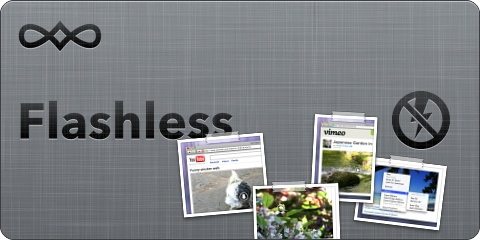
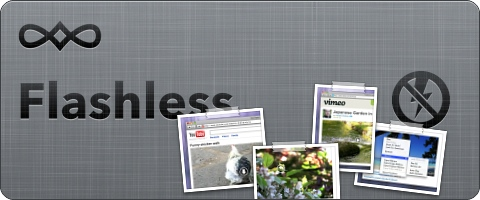
Add Flashless 2.0.4

diff --git a/de/flashless/index.html b/de/flashless/index.html
@@ -39,9 +39,9 @@
 <div class="wrapper">
 
 <div class="product aside">
-<!-- <img class="badge" src="../lay/new.png" alt="Neu" /> -->
+<img class="badge" src="../lay/new.png" alt="Neu" />
 <img class="logo" src="../../lay/flashless/logo.png" alt="Flashless" />
-<h2>Flashless <span class="note">2.0.3.1</span></h2>
+<h2>Flashless <span class="note">2.0.4</span></h2>
 <h3><a href="download.html">Herunterladen</a>
 (.dmg, ≈380K)
 </h3>
@@ -50,7 +50,7 @@
 <h3>Voraussetzungen</h3>
 <p>Mac OS X 10.5 Leopard oder <br />10.6 Snow Leopard und <br />ein WebKit-Browser (z.B. Safari).</p>
 <hr />
-<p>15Apr2010 — <a href="notes.html">Versionshinweise</a>.</p>
+<p>22Jul2010 — <a href="notes.html">Versionshinweise</a>.</p>
 <p><a href="faq.html#install">Anleitung</a>, <a href="http://github.com/useless/Flashless">Quellen</a></p>
 </div>
 
@@ -95,7 +95,7 @@ Sie können eingebettete Videos auf der Seite des Anbieters sehen.
 <cite>Konstantin</cite>
 </div>
 
-<p class="msg">Wenn Sie auf YouTube nur „Go Upgrade!“ sehen, aktualisieren Sie auf <a href="download.html">Flashless 2.0.3.1</a>.</p>
+<p class="msg">Wenn Sie auf <em>YouTube</em> nur „Go Upgrade!“ sehen oder Downloads nicht funktionieren, aktualisieren Sie auf <a href="download.html">Flashless 2.0.4</a>.</p>
 
 <h2>Galerie</h2>
 <a href="../../lay/flashless/preview.jpg" title="Video-Vorschaubilder"><img src="../../lay/flashless/previewt.png" height="100" width="100" alt="Vorschau" /></a>
@@ -115,7 +115,7 @@ Sie können eingebettete Videos auf der Seite des Anbieters sehen.
 </ul>
 
 <p><a href="http://useless.github.com/de/flashless/">useless.github.com/de/flashless</a> — Useless Coding.</p>
-<p>Zuletzt am <em>5. Juli 2010</em> geändert.</p>
+<p>Zuletzt am <em>22. Juli 2010</em> geändert.</p>
 </div>
 
 </body>

diff --git a/de/index.html b/de/index.html
@@ -24,21 +24,21 @@
 </ul>
 
 <h1>Useless Coding</h1>
-<p class="intro">Wir sind überzeugt, dass gute Software auf einer einfachen Idee basiert.</p>
+<p class="intro">Vielleicht gar nicht so nutzlos.</p>
 </div>
 </div>
 
 <div class="wrapper">
 <div class="aside">
 <ul>
+<li>22Jul2010 <a href="flashless/">Flashless</a> 2.0.4</li>
 <li>16Jun2010 <a href="there/">There</a> 1.0.1</li>
 <li>15Apr2010 <a href="flashless/">Flashless</a> 2.0.3.1</li>
-<li>8Apr2010 <a href="flashless/">Flashless</a> 2.0.3</li>
 </ul>
 
 <hr />
 
-<p class="msg">Wenn Sie auf YouTube nur „Go Upgrade!“ sehen, aktualisieren Sie auf <a href="flashless/">Flashless 2.0.3.1</a>.</p>
+<p class="msg">Wenn Sie auf <em>YouTube</em> nur „Go Upgrade!“ sehen oder Downloads nicht funktionieren, aktualisieren Sie auf <a href="flashless/">Flashless 2.0.4</a>.</p>
 
 <q class="de">Ok I love this app. Disables all flash, until you decide to load it = quicker safari.</q>
 <cite><a href="http://twitter.com/richcousins">@richcousins</a> über <em>Flashless</em></cite>
@@ -48,7 +48,7 @@
 
 <ul class="hero">
 <li>
-<a href="flashless/" title="Flashless: Videos sehen, den Rest blockieren"><img src="../lay/flashless.hero.jpg" height="240" width="480" alt="Flashless" /></a>
+<a href="flashless/" title="Flashless: Videos sehen, den Rest blockieren"><img src="../lay/flashless.hero.jpg" height="200" width="480" alt="Flashless" /></a>
 </li>
 <li>
 <a href="chain/" title="Chain: Bilder erkunden"><img src="../lay/chain.hero.jpg" height="100" width="480" alt="Chain" /></a>
@@ -104,7 +104,7 @@
 </ul>
 
 <p><a href="http://useless.github.com/de/">useless.github.com/de</a> — Useless Coding.</p>
-<p>Zuletzt am <em>10. Juli 2010</em> geändert.</p>
+<p>Zuletzt am <em>22. Juli 2010</em> geändert.</p>
 </div>
 
 </body>

diff --git a/index.html b/index.html
@@ -24,21 +24,21 @@
 </ul>
 
 <h1>Useless Coding</h1>
-<p class="intro">We believe that good software is based on a simple idea.</p>
+<p class="intro">Well, maybe not that useless.</p>
 </div>
 </div>
 
 <div class="wrapper">
 <div class="aside">
 <ul>
+<li>22Jul2010 <a href="flashless/">Flashless</a> 2.0.4</li>
 <li>16Jun2010 <a href="there/">There</a> 1.0.1</li>
 <li>15Apr2010 <a href="flashless/">Flashless</a> 2.0.3.1</li>
-<li>8Apr2010 <a href="flashless/">Flashless</a> 2.0.3</li>
 </ul>
 
 <hr />
 
-<p class="msg">If YouTube tells you to “Go Upgrade!”, upgrade to <a href="flashless/">Flashless 2.0.3.1</a>.</p>
+<p class="msg">If <em>YouTube</em> tells you to “Go Upgrade!” or downloads aren’t working, upgrade to <a href="flashless/">Flashless 2.0.4</a>.</p>
 
 <q>Ok I love this app. Disables all flash, until you decide to load it = quicker safari.</q>
 <cite><a href="http://twitter.com/richcousins">@richcousins</a> about <em>Flashless</em></cite>
@@ -48,7 +48,7 @@
 
 <ul class="hero">
 <li>
-<a href="flashless/" title="Flashless: see videos, block the rest"><img src="lay/flashless.hero.jpg" height="240" width="480" alt="Flashless" /></a>
+<a href="flashless/" title="Flashless: see videos, block the rest"><img src="lay/flashless.hero.jpg" height="200" width="480" alt="Flashless" /></a>
 </li>
 <li>
 <a href="chain/" title="Chain: browse your images"><img src="lay/chain.hero.jpg" height="100" width="480" alt="Chain" /></a>
@@ -104,7 +104,7 @@
 </ul>
 
 <p><a href="http://useless.github.com/">useless.github.com</a> — Useless Coding.</p>
-<p>Last edited on <em>July 10, 2010</em>.</p>
+<p>Last edited on <em>July 22, 2010</em>.</p>
 </div>
 
 </body>

diff --git a/flashless/index.html b/flashless/index.html
@@ -39,9 +39,9 @@
 <div class="wrapper">
 
 <div class="product aside">
-<!-- <img class="badge" src="../lay/new.png" alt="New" /> -->
+<img class="badge" src="../lay/new.png" alt="New" />
 <img class="logo" src="../lay/flashless/logo.png" alt="Flashless" />
-<h2>Flashless <span class="note">2.0.3.1</span></h2>
+<h2>Flashless <span class="note">2.0.4</span></h2>
 <h3><a href="download.html">Download</a>
 (.dmg, ≈380K)
 </h3>
@@ -50,7 +50,7 @@
 <h3>Requirements</h3>
 <p>Mac OS X 10.5 Leopard or <br />10.6 Snow Leopard and <br />a WebKit browser (e.g. Safari).</p>
 <hr />
-<p>15Apr2010 — <a href="notes.html">Release Notes</a>.</p>
+<p>22Jul2010 — <a href="notes.html">Release Notes</a>.</p>
 <p><a href="faq.html#install">Instructions</a>, <a href="http://github.com/useless/Flashless">Sources</a></p>
 </div>
 
@@ -95,7 +95,7 @@ You can watch embedded videos on their home site.
 <cite>Konstantin</cite>
 </div>
 
-<p class="msg">If YouTube tells you to “Go Upgrade!”, upgrade to <a href="download.html">Flashless 2.0.3.1</a>.</p>
+<p class="msg">If <em>YouTube</em> tells you to “Go Upgrade!” or downloads aren’t working, upgrade to <a href="download.html">Flashless 2.0.4</a>.</p>
 
 <h2>Screenshots</h2>
 <a href="../lay/flashless/preview.jpg" title="Preview Video Images"><img src="../lay/flashless/previewt.png" height="100" width="100" alt="Preview" /></a>
@@ -115,7 +115,7 @@ You can watch embedded videos on their home site.
 </ul>
 
 <p><a href="http://useless.github.com/flashless/">useless.github.com/flashless</a> — Useless Coding.</p>
-<p>Last edited on <em>July 5, 2010</em>.</p>
+<p>Last edited on <em>July 22, 2010</em>.</p>
 </div>
 
 </body>

diff --git a/de/flashless/notes.html b/de/flashless/notes.html
@@ -38,17 +38,24 @@
 
 <div class="wrapper">
 
+<h2><a name="v2.0.4"></a>Version 2.0.4</h2>
+<p>„Summer“ <span class="note">— 22Jul2010</span></p>
+<ul>
+<li>Behebt ein Problem mit <em>YouTube</em>-Downloads.</span></li>
+<li>Kleinere Fehlerbeseitigungen.</li>
+</ul>
+
 <h2><a name="v2.0.3.1"></a>Version 2.0.3.1</h2>
 <p class="note">15Apr2010</p>
 <ul>
-<li>Behebt ein Problem mit YouTube, wo Benutzern nur „Go Upgrade!“ angezeigt wurde. <span class="note">Credit: ClickToFlash-Developers.</span></li>
+<li>Behebt ein Problem mit <em>YouTube</em>, wo Benutzern nur „Go Upgrade!“ angezeigt wurde. <span class="note">Credit: ClickToFlash-Entwickler.</span></li>
 </ul>
 
 <h2><a name="v2.0.3"></a>Version 2.0.3</h2>
 <p>„Springtime“ <span class="note">— 8Apr2010</span></p>
 <ul>
-<li>Verbesserte Zuverlässigkeit beim Laden von Flash. <span class="note">Credit: ClickToFlash-Developers.</span></li>
-<li>Videos werden standardmäßig mit Quicktime abgespielt.</li>
+<li>Verbesserte Zuverlässigkeit beim Laden von Flash. <span class="note">Credit: ClickToFlash-Entwickler.</span></li>
+<li>Videos werden standardmäßig mit QuickTime abgespielt.</li>
 <li>Fehlerbehebung für Downloads von eingebetteten <em>YouTube</em>-Videos nach Seiten-Neudesign.</li>
 </ul>
 
@@ -93,7 +100,7 @@
 </ul>
 
 <p><a href="http://useless.github.com/de/flashless/notes.html">useless.github.com/de/flashless/notes.html</a> — Useless Coding.</p>
-<p>Zuletzt am <em>15. April 2010</em> geändert.</p>
+<p>Zuletzt am <em>22. Juli 2010</em> geändert.</p>
 </div>
 
 </body>

diff --git a/de/flashless/download.html b/de/flashless/download.html
@@ -9,7 +9,7 @@
 <link rel="stylesheet" type="text/css" href="../../lay/screen.css" />
 <link rel="icon" type="image/png" href="../../lay/site.png" />
 <meta name="viewport" content="width=800" />
-<meta http-equiv="REFRESH" content="1;URL=http://github.com/downloads/useless/Flashless/Flashless-2.0.3.1.dmg" />
+<meta http-equiv="REFRESH" content="1;URL=http://github.com/downloads/useless/Flashless/Flashless-2.0.4.dmg" />
 </head>
 
 <body>
@@ -27,7 +27,7 @@
 <p class="intro">Ein WebKit-Plugin, das eine Vorschau für Flash-Video-Dienste anzeigt und den Rest blockiert.</p>
 
 <ul class="toc">
-<li class="main"><a href="http://github.com/downloads/useless/Flashless/Flashless-2.0.3.1.dmg"><img src="../lay/download.png" height="30" width="134" alt="Herunterladen" /></a></li>
+<li class="main"><a href="http://github.com/downloads/useless/Flashless/Flashless-2.0.4.dmg"><img src="../lay/download.png" height="30" width="134" alt="Herunterladen" /></a></li>
 <li><a href=".">Übersicht</a></li>
 <li><a href="features.html">Features</a></li>
 <li><a href="faq.html">FAQ</a></li>
@@ -39,9 +39,9 @@
 
 <div class="wrapper">
 <h2>Danke fürs Herunterladen.</h2>
-<h3>Flashless 2.0.3.1</h3>
+<h3>Flashless 2.0.4</h3>
 <p>Falls der Download nicht begonnen hat,
-<a href="http://github.com/downloads/useless/Flashless/Flashless-2.0.3.1.dmg">klicken Sie hier</a>.</p>
+<a href="http://github.com/downloads/useless/Flashless/Flashless-2.0.4.dmg">klicken Sie hier</a>.</p>
 </div>
 
 

diff --git a/flashless/download.html b/flashless/download.html
@@ -9,7 +9,7 @@
 <link rel="stylesheet" type="text/css" href="../lay/screen.css" />
 <link rel="icon" type="image/png" href="../lay/site.png" />
 <meta name="viewport" content="width=800" />
-<meta http-equiv="REFRESH" content="1;URL=http://github.com/downloads/useless/Flashless/Flashless-2.0.3.1.dmg" />
+<meta http-equiv="REFRESH" content="1;URL=http://github.com/downloads/useless/Flashless/Flashless-2.0.4.dmg" />
 </head>
 
 <body>
@@ -27,7 +27,7 @@
 <p class="intro">A WebKit plug-in to display preview images for Flash based video services and block the rest.</p>
 
 <ul class="toc">
-<li class="main"><a href="http://github.com/downloads/useless/Flashless/Flashless-2.0.3.1.dmg"><img src="../lay/download.png" height="30" width="134" alt="Download Now" /></a></li>
+<li class="main"><a href="http://github.com/downloads/useless/Flashless/Flashless-2.0.4.dmg"><img src="../lay/download.png" height="30" width="134" alt="Download Now" /></a></li>
 <li><a href=".">Overview</a></li>
 <li><a href="features.html">Features</a></li>
 <li><a href="faq.html">FAQ</a></li>
@@ -39,9 +39,9 @@
 
 <div class="wrapper">
 <h2>Thanks for Downloading.</h2>
-<h3>Flashless 2.0.3.1</h3>
+<h3>Flashless 2.0.4</h3>
 <p>If the download didn’t start,
-<a href="http://github.com/downloads/useless/Flashless/Flashless-2.0.3.1.dmg">click here</a>.</p>
+<a href="http://github.com/downloads/useless/Flashless/Flashless-2.0.4.dmg">click here</a>.</p>
 </div>
 
 

diff --git a/flashless/notes.html b/flashless/notes.html
@@ -38,17 +38,24 @@
 
 <div class="wrapper">
 
+<h2><a name="v2.0.4"></a>Version 2.0.4</h2>
+<p>“Summer” <span class="note">— 22Jul2010</span></p>
+<ul>
+<li>Fix YouTube download problem.</li>
+<li>Small bug fixes.</li>
+</ul>
+
 <h2><a name="v2.0.3.1"></a>Version 2.0.3.1</h2>
 <p class="note">15Apr2010</p>
 <ul>
-<li>Fixes a problem with YouTube where users would see “Go Upgrade!” <span class="note">Credit: ClickToFlash-Developers.</span></li>
+<li>Fixes a problem with <em>YouTube</em> where users would see “Go Upgrade!” <span class="note">Credit: ClickToFlash Developers.</span></li>
 </ul>
 
 <h2><a name="v2.0.3"></a>Version 2.0.3</h2>
 <p>“Springtime” <span class="note">— 8Apr2010</span></p>
 <ul>
-<li>Improved reliability when loading Flash. <span class="note">Credit: ClickToFlash-Developers.</span></li>
-<li>Playing videos with Quicktime by default.</li>
+<li>Improved reliability when loading Flash. <span class="note">Credit: ClickToFlash Developers.</span></li>
+<li>Playing videos with QuickTime by default.</li>
 <li>Fix download for embedded <em>YouTube</em> videos after site redesign.</li>
 </ul>
 
@@ -93,7 +100,7 @@
 </ul>
 
 <p><a href="http://useless.github.com/flashless/notes.html">useless.github.com/flashless/notes.html</a> — Useless Coding.</p>
-<p>Last edited on <em>April 15, 2010</em>.</p>
+<p>Last edited on <em>July 22, 2010</em>.</p>
 </div>
 
 </body>
